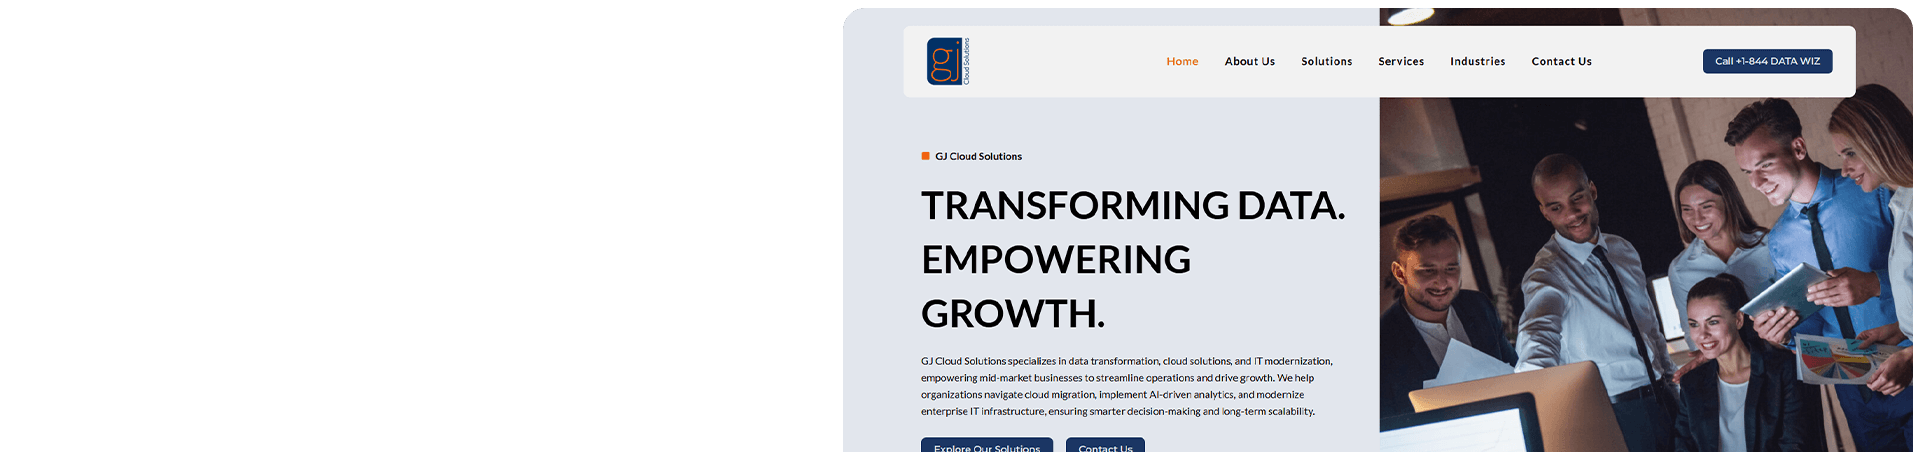
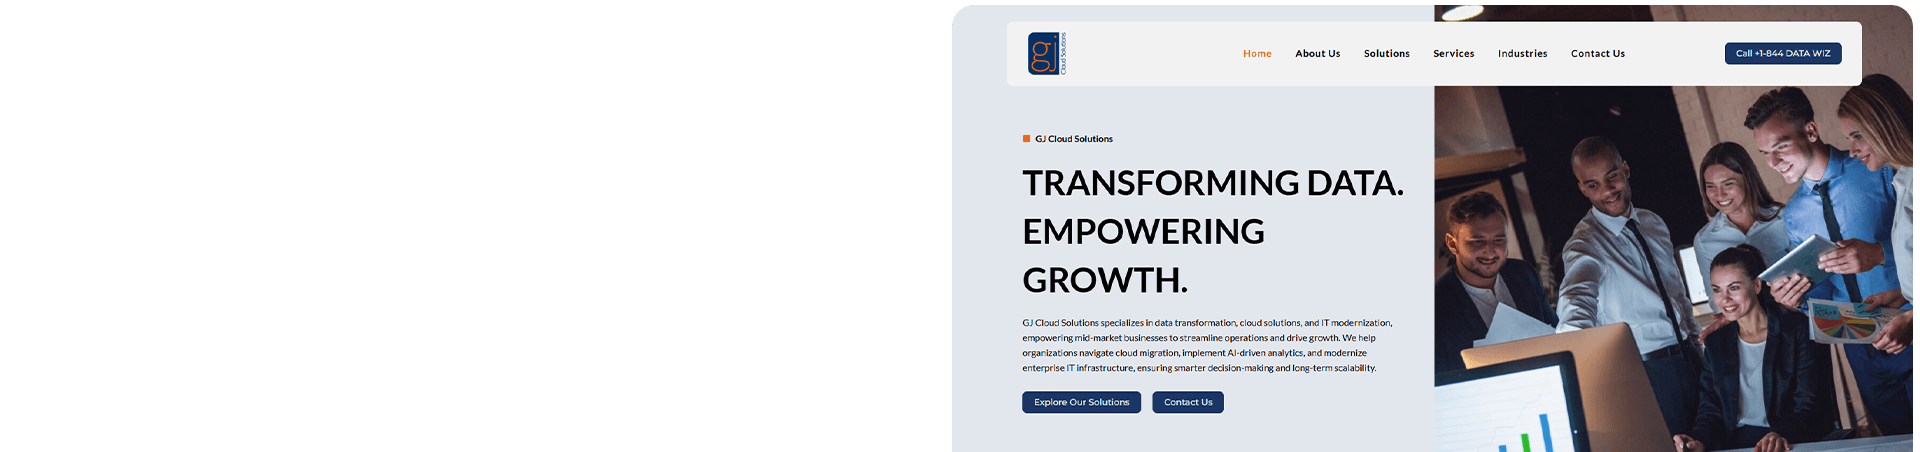
New changes

diff --git a/skills/ui_ux.html b/skills/ui_ux.html
@@ -46,8 +46,13 @@
             <div class="heading">
                 <h1>UI/UX Design</h1>
                 <ul class="project-skills">
-                    <li>Graphic Design</li>
-                    <li>UI/UX Design</li>
+                    <li>UX Design</li>
+                    <li>Wireframing</li>
+                    <li>HTML</li>
+                    <li>CSS</li>
+                    <li>Java Script</li>
+                    <li>Wordpress</li>
+                    <li>Sharepoint</li>
                 </ul>
             </div>
         </div>
@@ -56,6 +61,24 @@
     <main>
         <div class="projects-wrap">
 
+            <a class="projects-container ui_ux_proj9 black" id="plato_branding" href="ui_ux/plato_branding.html">
+                <div class="project">
+                    <h1>Plato Branding Page - SharePoint Design</h1>
+                    <ul class="project-skills">
+                        <li>SharePoint</li>
+                        <li>Photoshop</li>
+                    </ul>
+                </div>
+            </a>
+            <a class="projects-container ui_ux_proj8 black" id="gj_design" href="ui_ux/gj_design.html">
+                <div class="project">
+                    <h1>GJ Cloud Solutions Home Page - WordPress Design</h1>
+                    <ul class="project-skills">
+                        <li>WordPress</li>
+                        <li>Photoshop</li>
+                    </ul>
+                </div>
+            </a>
             <a class="projects-container ui_ux_proj1 black" id="log2base2_ux_design" href="ui_ux/log2base2_ux_design.html">
                 <div class="project">
                     <h1>Log2Base2 Project - UX Design</h1>
@@ -106,15 +129,6 @@
             <a class="projects-container ui_ux_proj7 black" id="mindbridges_design" href="ui_ux/mindbridges_design.html">
                 <div class="project">
                     <h1>MindBridges Home Page - WordPress Design</h1>
-                    <ul class="project-skills">
-                        <li>WordPress</li>
-                        <li>Photoshop</li>
-                    </ul>
-                </div>
-            </a>
-            <a class="projects-container ui_ux_proj8 black" id="gj_design" href="ui_ux/gj_design.html">
-                <div class="project">
-                    <h1>GJ Cloud Solutions Home Page - WordPress Design</h1>
                     <ul class="project-skills">
                         <li>WordPress</li>
                         <li>Photoshop</li>

diff --git a/skills/ui_ux/plato_branding.html b/skills/ui_ux/plato_branding.html
@@ -1,0 +1,39 @@
+<html lang="en" xmlns="http://www.w3.org/1999/xhtml">
+<head>
+    <meta charset="utf-8">
+    <title>UI/UX Design</title>
+    <link rel="icon" type="image/x-icon" href="../../img/fav-icon.png">
+    <meta name="viewport" content="width=device-width, initial-scale=1">
+    <link rel="stylesheet" href="https://cdnjs.cloudflare.com/ajax/libs/font-awesome/4.7.0/css/font-awesome.min.css">
+    <link rel="preconnect" href="https://fonts.googleapis.com">
+    <link rel="preconnect" href="https://fonts.gstatic.com" crossorigin>
+    <link href="https://fonts.googleapis.com/css2?family=Montserrat:ital,wght@0,100..900;1,100..900&display=swap" rel="stylesheet">
+    <link rel="stylesheet" href="../../css/style.css">
+    <link rel="stylesheet" href="../../css/skills-style.css">
+    <link rel="stylesheet" href="../../css/project-style.css">
+</head>
+<body>
+    <a href="../ui_ux.html?section=plato_branding">
+        <div class="backward">
+            <p class="cross"><p>
+        </div>
+    </a>
+    <div class="projects-wrap">
+        <div class="project">
+            <div class="heading">
+                <h1>Plato branding page - SharePoint Design</h1>
+                <p>Plato branding Page design using SharePoint</p>
+                <h4>Software Used</h4>
+                <p>SharePoint | Photoshop</p>
+            </div>
+            <div class="images-grid">
+                <img src="images/plato_branding/2.png" alt="Plato Branding Page">
+                <h1>SharePoint Design</h1>
+                <img src="images/plato_branding/1.png" alt="Plato Branding Page">
+            </div>
+        </div>
+    </div>
+    <div class="footer"></div>
+    <script src="../../js/script.js"></script>
+</body>
+</html>

diff --git a/skills/graphic-design.html b/skills/graphic-design.html
@@ -47,6 +47,7 @@
                 <ul class="project-skills">
                     <li>Branding</li>
                     <li>Design Media</li>
+                    <li>Multimedia</li>
                     <li>Print Media</li>
                     <li>Marketing</li>
                 </ul>

diff --git a/skills/branding.html b/skills/branding.html
@@ -46,6 +46,7 @@
                 <h1>BRANDING</h1>
                 <ul class="project-skills">
                     <li>Branding</li>
+                    <li>Multimedia</li>
                     <li>Documentations</li>
                 </ul>
             </div>

diff --git a/css/project-img.css b/css/project-img.css
@@ -32,6 +32,10 @@
     background-image: url("../skills/images/gj_design.png");
 }
 
+.ui_ux_proj9 {
+    background-image: url("../skills/images/plato_branding.png");
+}
+
 /*Graphic_Design_Image section*/
 
 .graphic_proj1 {
